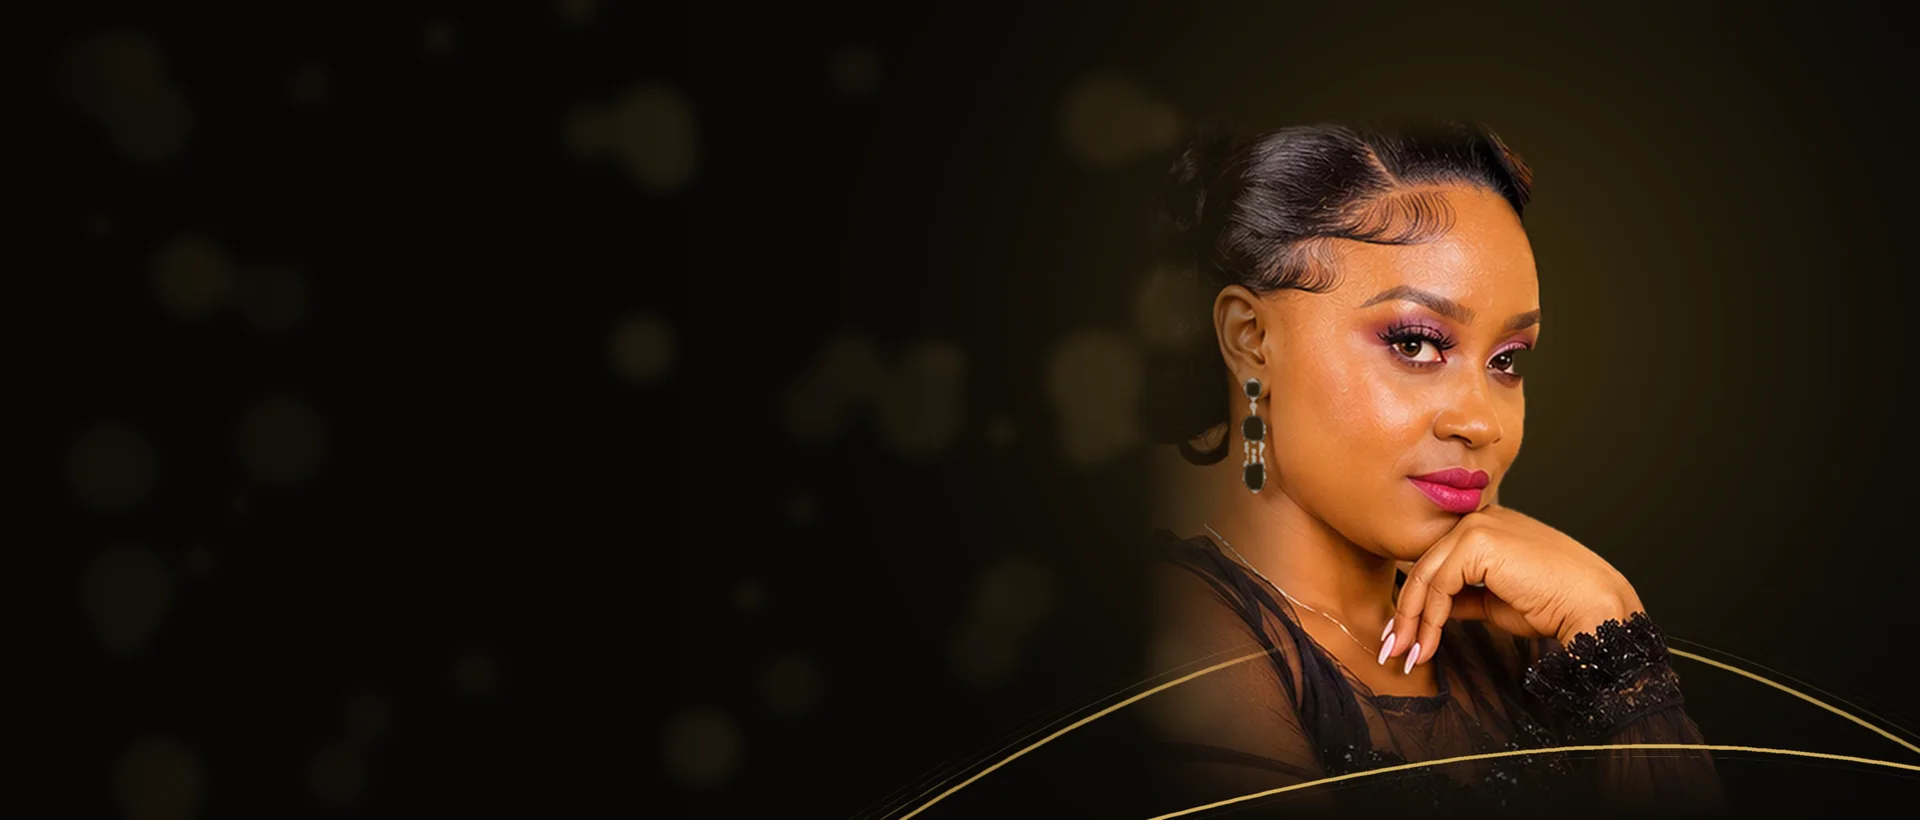
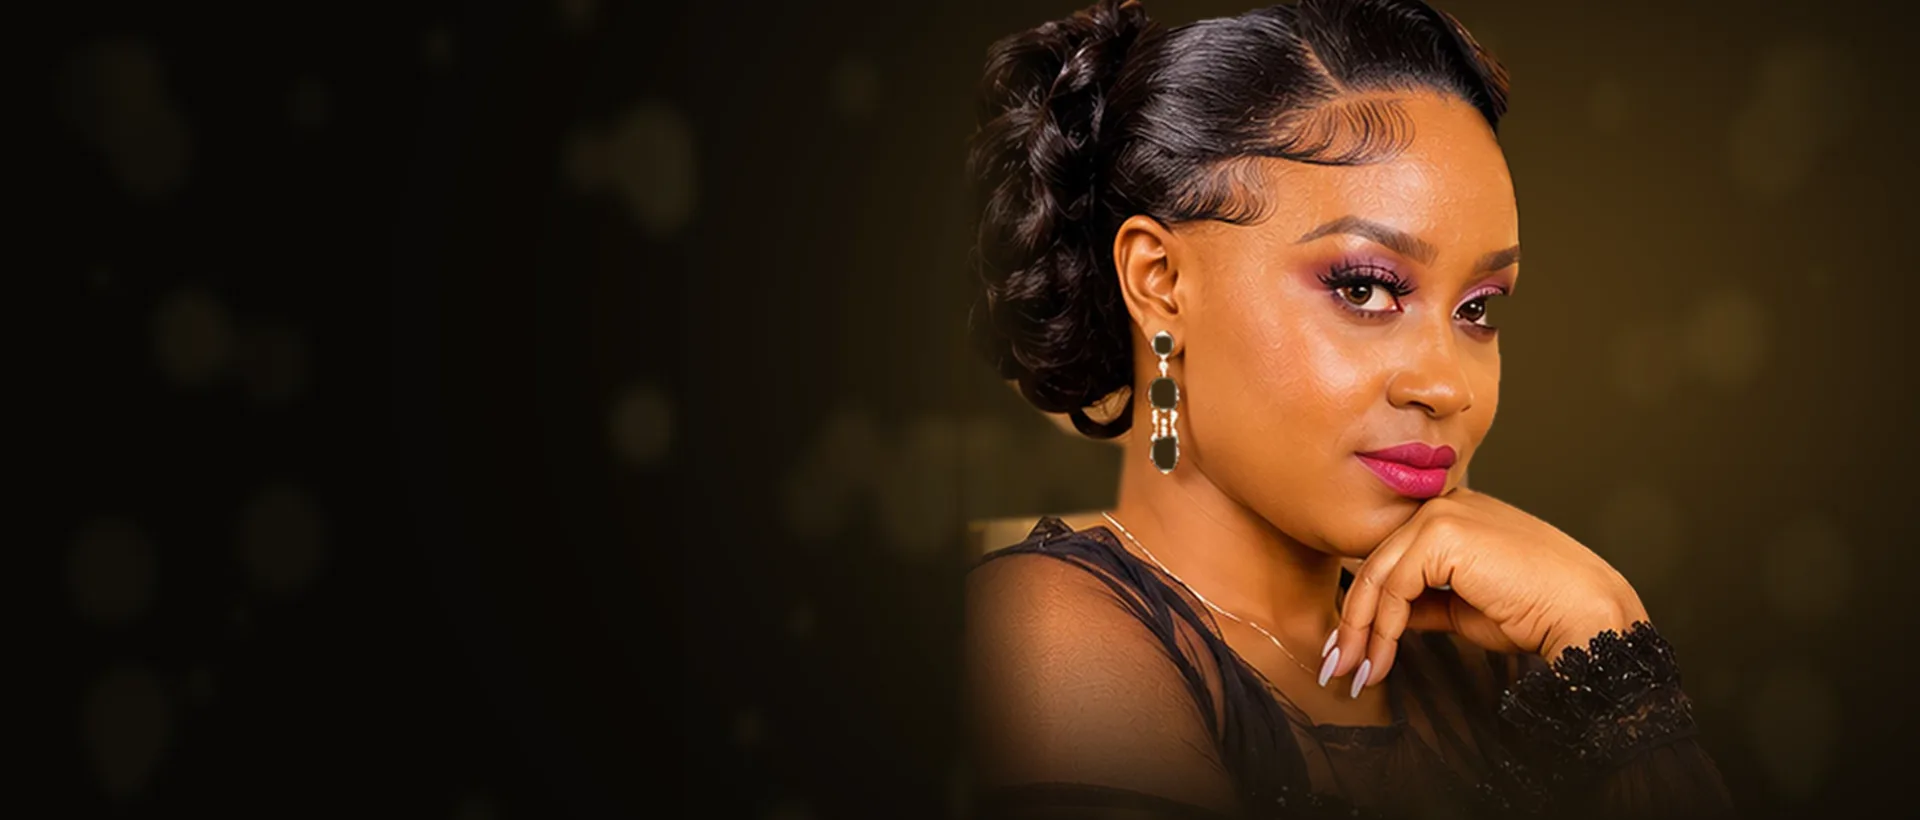
Theme 1.152.1: homepage first slide uses the original branding-PDF portrait of the owner (fixes the distorted right eye)

diff --git a/nura-beauty/style.css b/nura-beauty/style.css
@@ -4,7 +4,7 @@ Theme URI: https://nurabeauty.co.ke
 Author: NURA - The House of Radiant Confidence
 Author URI: https://nurabeauty.co.ke
 Description: NURA Beauty is a premium luxury WooCommerce theme built for high-end wig and beauty ecommerce in Kenya and internationally. Editorial, minimal, fast and conversion-focused. Includes one-click required-plugin installation and sample data on activation. Design language: Apple meets Chanel meets Sephora. Use the child theme (NURA Beauty Child) for all customisations.
-Version: 1.152.0
+Version: 1.152.1
 Requires at least: 6.2
 Tested up to: 6.6
 Requires PHP: 7.4

diff --git a/nura-beauty/functions.php b/nura-beauty/functions.php
@@ -12,7 +12,7 @@ if ( ! defined( 'ABSPATH' ) ) {
 	exit;
 }
 
-define( 'NURA_VERSION', '1.152.0' );
+define( 'NURA_VERSION', '1.152.1' );
 define( 'NURA_DIR', trailingslashit( get_template_directory() ) );
 define( 'NURA_URI', trailingslashit( get_template_directory_uri() ) );
 
